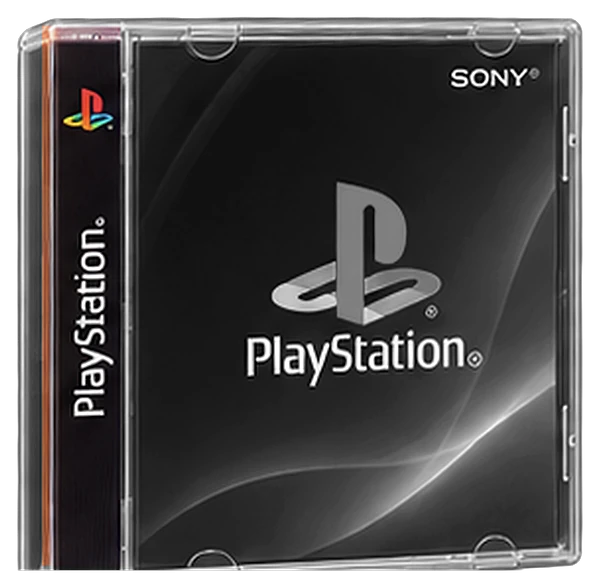
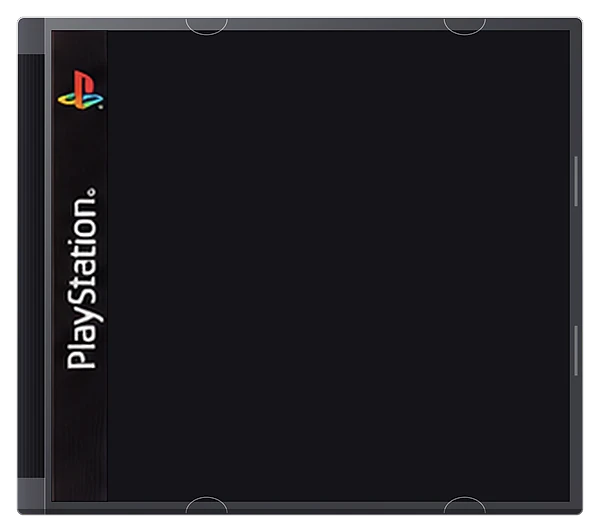
Draw the disc cases as true front views instead of warping the references
Both case references are drawn in three-quarter view: the PlayStation case shows a
side face and the case top, the Saturn case an angled hinge. Straightening edges
can't remove that without inventing detail, so the derive script now draws each
case as exact front-view geometry (clear jewel case, ribbed hinge strip, tray tabs,
cover behind the lid; every edge horizontal or vertical). Only each reference's
flat printed spine band is reused, scaled uniformly. The PlayStation case takes the
real 142 x 125 mm proportions; the Saturn case keeps its reference's. The keystone
correction is gone; the cartridge shear correction stays.

diff --git a/src/components/shelf/media-shells.ts b/src/components/shelf/media-shells.ts
@@ -11,9 +11,10 @@ import snesNtscU from "@/assets/collection/media/snes-ntsc-u.webp";
 import snesPal from "@/assets/collection/media/snes-pal.webp";
 import type { MediaKind, Region } from "@/features/shelf/browse";
 
-// The physical shells, derived from the owner's references by
-// scripts/derive-collection-art.mjs, which also writes each label recess (or case
-// insert) to manifest.json as percentages of the image. A game's own artwork is a
+// The physical shells, made by scripts/derive-collection-art.mjs: cartridges derived
+// from the owner's references, disc cases drawn as exact front-view geometry around
+// their references' printed spine bands. The script also writes each label recess (or
+// case cover) to manifest.json as percentages of the image. A game's own artwork is a
 // separate layer laid over that recess.
 
 type ShellKey = keyof typeof manifest.media;
